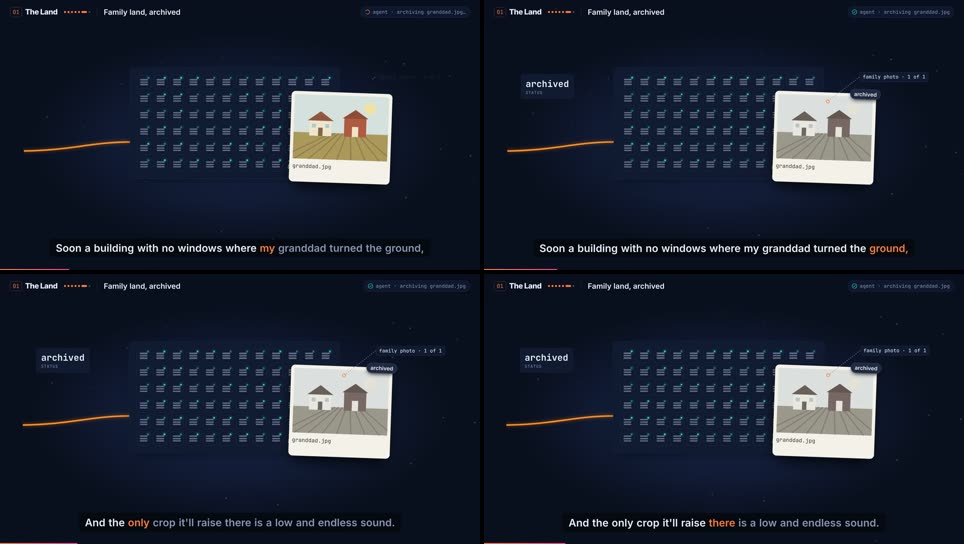
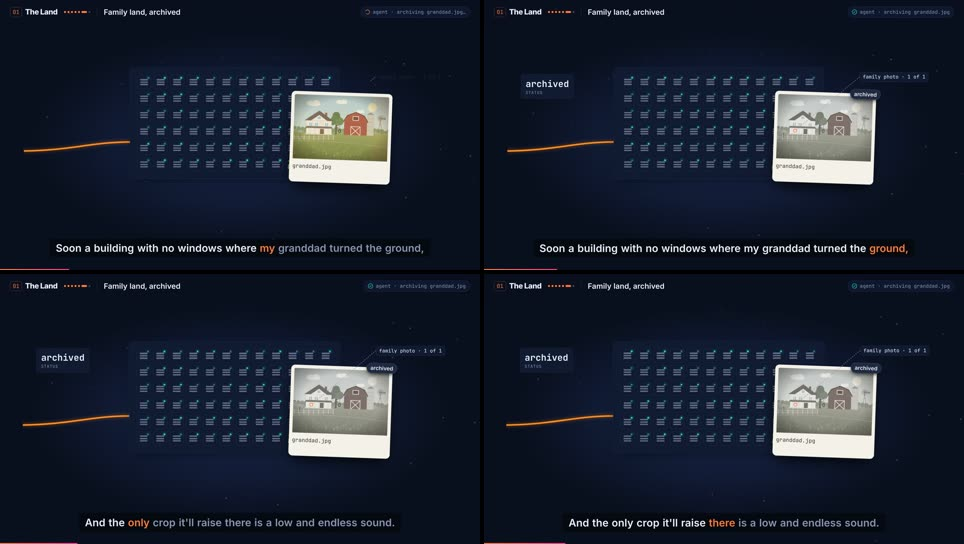
M5: Verse 1 v2 rendered (more detailed photo); v1 archived
Claude-Session: https://claude.ai/code/session_01U1tVYjqjSmd5JP5bTWdgUW

diff --git a/log/production_log.md b/log/production_log.md
@@ -172,3 +172,7 @@ Append-only. One entry per action: timestamp, step (shot ID where relevant), wha
 ## 2026-10-30T06:50 — M5 begun: Intro and Verse 1 final renders
 
 - Final sections are frame ranges of the full cut (`Animatic`, burn-in off) at 1080p, CRF 16; the full release render later is the same composition end to end. Fixed S10's badge and label (see renders.md). Sent both for approval.
+
+## 2026-10-30T06:57 — M5: granddad.jpg redrawn; Verse 1 re-rendered
+
+- The human asked for more detail in the photo. Now an old family snapshot in SVG: sky with clouds, a tree line, a two-story farmhouse with siding, porch, gable window and chimney, a red gambrel barn with hayloft and X door, a silo, a windmill, a tree with a tire swing, a fence and mailbox, corn rows to the horizon; warm fade, grain, vignette, a light leak and a crease. Generic, no people. It still goes gray when archived.

diff --git a/log/renders.md b/log/renders.md
@@ -62,3 +62,8 @@ Every render: timestamp, shot ID, composition, props, commit hash, output, conta
 - **Full-res still pass before it** (scratch, 9 frames): S10's "archived" badge was see-through over the white photo border (unreadable) and the "family photo · 1 of 1" label ran off the right edge; both fixed. Nothing else found.
 - **Contact sheets:** `review/S01.jpg`–`review/S11.jpg` from these renders (`contact_sheets.py` now takes a section offset and length).
 - **Gate:** approve each section.
+
+## 2026-10-30T06:57 — M5 final: Verse 1 v2 (S05–S11)
+
+- **Change:** granddad.jpg (`Farmhouse`, `components/illustrations.tsx`) redrawn in more detail; S10's label now points at the house. **Commit:** 4c45e5a.
+- **Output:** `renders/m5/02_verse1.mp4` (frames 485–1387, 1080p, CRF 16); v1 moved to `archive/renders/m5/02_verse1_v1.mp4`. Sheets `review/S05.jpg`–`S11.jpg` regenerated.

diff --git a/log/human_interventions.md b/log/human_interventions.md
@@ -51,3 +51,8 @@ Every human action: timestamp, what, why, and which rule allows it. The brief al
 
 - **What:** On animatic v4: "Both are good. Two nitpicks, then keep going: the terminal caret is in the wrong position for what is typed next, and fade into the fan sound during the end of the song rather than starting it abruptly".
 - **Rule:** H2 (M4 gate approved: framing and timing; the agent made the two fixes).
+
+## 2026-10-30T06:57 — M5 note on S10's photo — H2
+
+- **What:** On the Verse 1 final render: "I feel like that photo could use some more detail".
+- **Rule:** H2 (feedback at the M5 gate; the agent redrew it).
